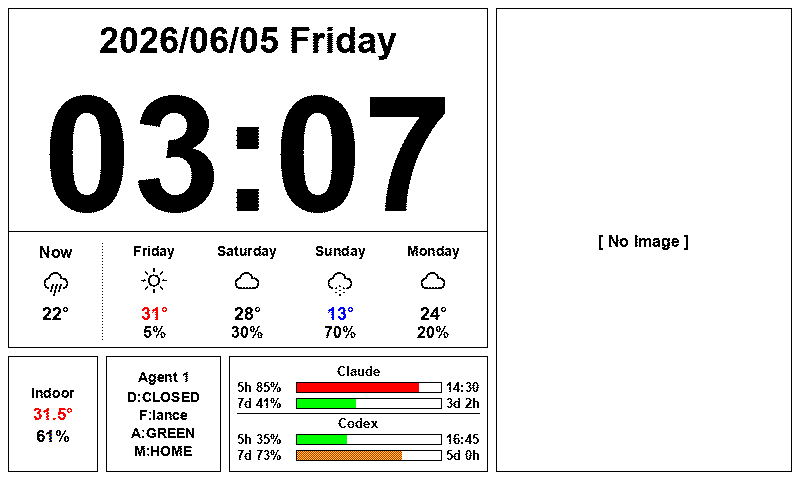
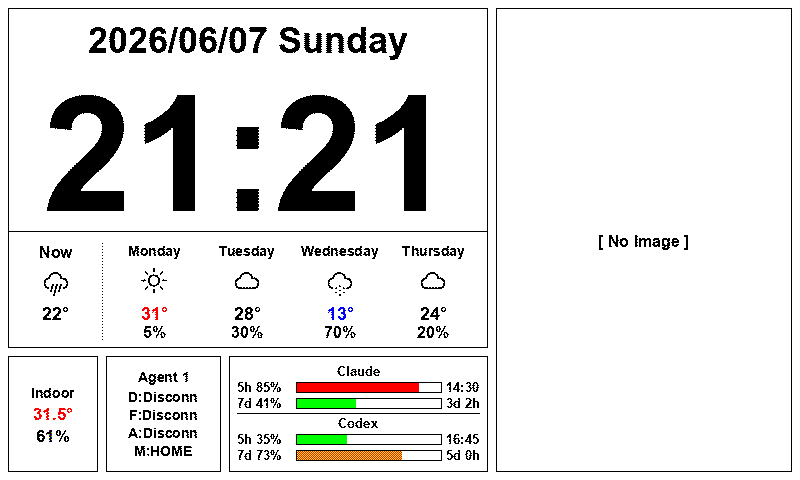
feat(display): display "Disconn" when MQTT security status is offline
Implement MQTT status online/offline checking. If no update has been
received on the topic "home/security/status" within 180 seconds, show
"Disconn" for security state variables (door, face, alarm) on both the
dashboard card and the alert page.

- app/display/renderer_utils.py: implement is_mqtt_status_online helper
- app/display/renderer.py: pass current datetime to _draw_card_agent1
- app/display/renderer_cards.py: draw "Disconn" when MQTT is offline
- app/display/renderer_alert.py: draw "Disconn" on alert page when MQTT is offline
- docs/images/: update preview screenshots

diff --git a/app/display/renderer_cards.py b/app/display/renderer_cards.py
@@ -18,7 +18,7 @@ from app.display.renderer_constants import (
 from app.display.renderer_utils import (
     _font, _cx_text, _paste_icon, _draw_progress_bar,
     _pick_daily_forecast, _weather_item, _temp_color, _usage_color,
-    fmt_door, fmt_face, fmt_alarm,
+    fmt_door, fmt_face, fmt_alarm, is_mqtt_status_online,
 )
 
 if TYPE_CHECKING:
@@ -166,7 +166,7 @@ def _draw_card_indoor(draw: ImageDraw.ImageDraw, state: "AgentState", *, color: 
     _cx_text(draw, hum_str, ix, iw, sy + 41, _font(17, bold=True))
 
 
-def _draw_card_agent1(draw: ImageDraw.ImageDraw, state: "AgentState") -> None:
+def _draw_card_agent1(draw: ImageDraw.ImageDraw, state: "AgentState", now: datetime) -> None:
     draw.rectangle(
         [(AGENT1_X, AGENT1_Y), (AGENT1_X + AGENT1_W - 1, AGENT1_Y + AGENT1_H - 1)],
         outline=FG, width=1,
@@ -175,9 +175,12 @@ def _draw_card_agent1(draw: ImageDraw.ImageDraw, state: "AgentState") -> None:
     iw = AGENT1_W - 2 * PAD
     ih = AGENT1_H - 2 * PAD
 
-    door_st = fmt_door(state.last_door_event)
-    face_id = fmt_face(state.last_face_event)
-    alarm_st = fmt_alarm(state.last_alarm_decision)
+    if not is_mqtt_status_online(state, now):
+        door_st = face_id = alarm_st = "Disconn"
+    else:
+        door_st = fmt_door(state.last_door_event)
+        face_id = fmt_face(state.last_face_event)
+        alarm_st = fmt_alarm(state.last_alarm_decision)
     mode_map = {"OCCUPIED": "HOME", "UNOCCUPIED": "AWAY", "UNKNOWN": "?"}
     mode_str = mode_map.get(state.presence, state.presence[:6])
 

diff --git a/app/display/renderer_alert.py b/app/display/renderer_alert.py
@@ -9,7 +9,7 @@ from PIL import Image, ImageDraw
 from app.display.renderer_constants import BG, DISPLAY_H, DISPLAY_W, FG, PAD
 from app.display.renderer_utils import (
     _cx_text, _font, _paste_icon, _weather_item,
-    fmt_door, fmt_face, fmt_alarm, _temp_color,
+    fmt_door, fmt_face, fmt_alarm, _temp_color, is_mqtt_status_online,
 )
 
 logger = logging.getLogger(__name__)
@@ -73,9 +73,12 @@ def _draw_info_panel(
     y += PAD + 2
 
     # Security state rows
-    door = fmt_door(state.last_door_event)
-    face = fmt_face(getattr(state, "alert_face_event", None))
-    alarm = fmt_alarm(getattr(state, "last_alarm_decision", None))
+    if not is_mqtt_status_online(state, now):
+        door = face = alarm = "Disconn"
+    else:
+        door = fmt_door(state.last_door_event)
+        face = fmt_face(getattr(state, "alert_face_event", None))
+        alarm = fmt_alarm(getattr(state, "last_alarm_decision", None))
 
     for label, val in [("D", door), ("F", face), ("A", alarm)]:
         _cx_text(draw, f"{label}:{val}", ix, iw, y, _font(14, bold=True))

diff --git a/app/display/renderer_utils.py b/app/display/renderer_utils.py
@@ -3,7 +3,7 @@ from __future__ import annotations
 import logging
 from collections import Counter
 from datetime import datetime, date, timezone
-from typing import TypeAlias
+from typing import Any, TypeAlias
 
 from PIL import Image, ImageDraw, ImageFont
 
@@ -211,3 +211,20 @@ def fmt_alarm(decision: str | None) -> str:
     if decision is None:
         return "NONE"
     return _DECISION_COLOR_LABEL.get(decision, decision[:5])
+
+
+_MQTT_STATUS_TOPIC = "home/security/status"
+_MQTT_STATUS_TIMEOUT_SECS = 180
+
+
+def is_mqtt_status_online(state: Any, now: datetime) -> bool:
+    """Return False if home/security/status has not been received within 3 minutes."""
+    try:
+        entry = state.mqtt_last_rx_by_topic.get(_MQTT_STATUS_TOPIC)
+        if not entry:
+            return False
+        last = datetime.fromisoformat(entry["received_at"])
+        delta = (now - last).total_seconds()
+        return 0 <= delta <= _MQTT_STATUS_TIMEOUT_SECS
+    except (AttributeError, KeyError, ValueError, TypeError):
+        return False

diff --git a/app/display/renderer.py b/app/display/renderer.py
@@ -34,7 +34,7 @@ def render_dashboard(
     _draw_card_weather(img, draw, state, now, color=color)
     _draw_card_image(img, draw, state)
     _draw_card_indoor(draw, state, color=color)
-    _draw_card_agent1(draw, state)
+    _draw_card_agent1(draw, state, now)
     _draw_card_usage(draw, state, color=color)
 
     return img
